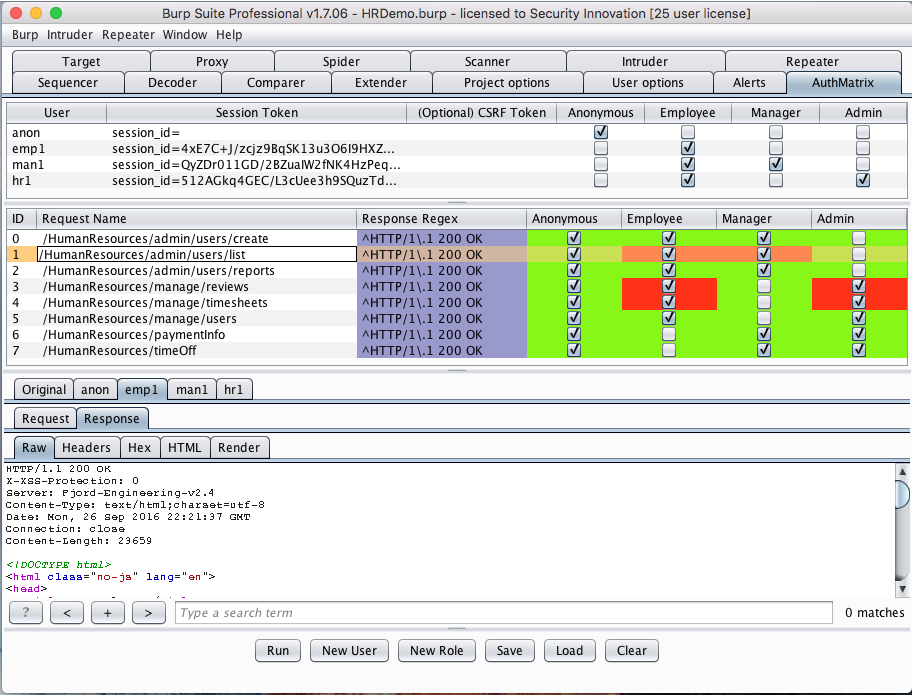
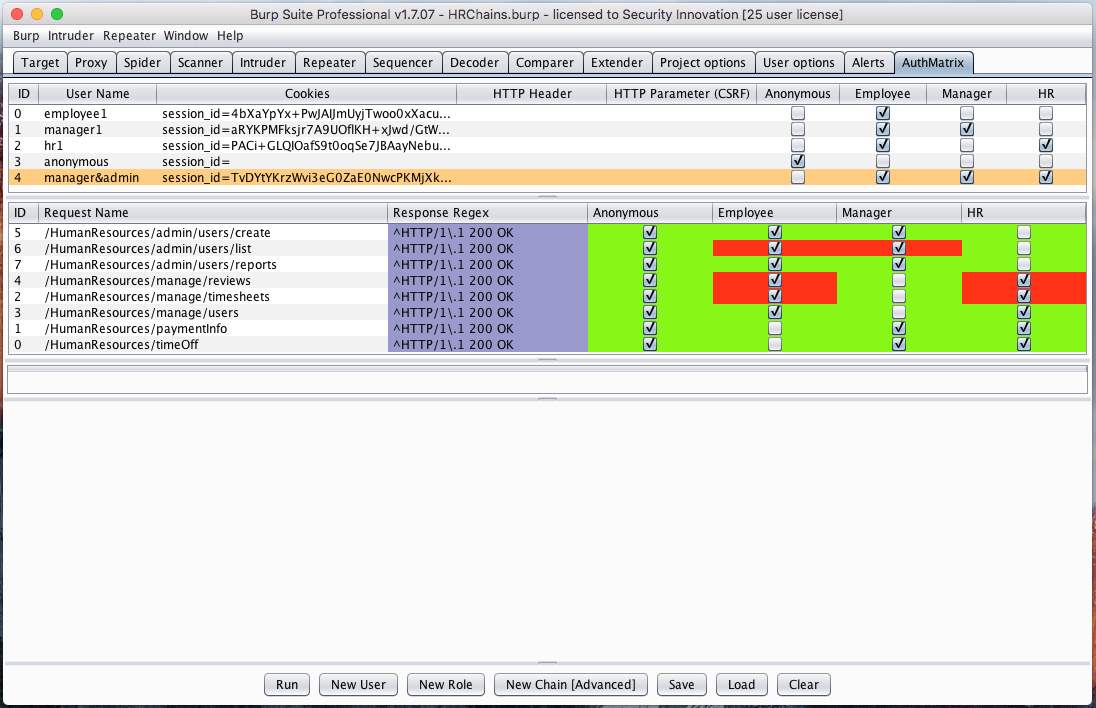
updated docs

diff --git a/AuthMatrix.py b/AuthMatrix.py
@@ -1244,7 +1244,7 @@ class UserTableModel(AbstractTableModel):
         elif columnIndex == 3:
             return "HTTP Header"
         elif columnIndex == 4:
-            return "HTTP Parameter (CSRF)"
+            return "HTTP Parameter (CSRF)" # Rename and remove CSRF?
         else:
             roleEntry = self._db.getRoleByColumn(columnIndex, 'u')
             if roleEntry:

diff --git a/README.md b/README.md
@@ -49,10 +49,6 @@ Be sure to use Jython version 2.7.0 or greater to ensure compatibility.
 
   * Blue indicates that the result may be a false positive.  (This generally means there is an invalid/expired session token or an incorrect regex)
 
-# Advanced Usage (Chains)
-
-TODO
-
 ## Sample AuthMatrix Configuration
 
 ![Sample AuthMatrix Configuration]
@@ -64,8 +60,27 @@ TODO
 (img2.png)
 
 
-## Invalid AuthMatrix Configuration (False Positives Detected)
+## False Positives Detected (Invalid Response Regex)
 
-![Invalid AuthMatrix Configuration]
+![Invalid Response Regex]
 (img3.png)
 
+
+## False Positives Detected (Invalid Session Tokens)
+
+![Invalid Session Tokens]
+(img4.png)
+
+# Advanced Usage (Chains)
+
+TODO
+
+## Chains for Advanced CSRF
+
+![Chain for CSRF]
+(img5.png)
+
+## Chain for Testing Created Identifiers (Pitchfork Mode)
+
+![Chain Pitchfork]
+(img6.png)
